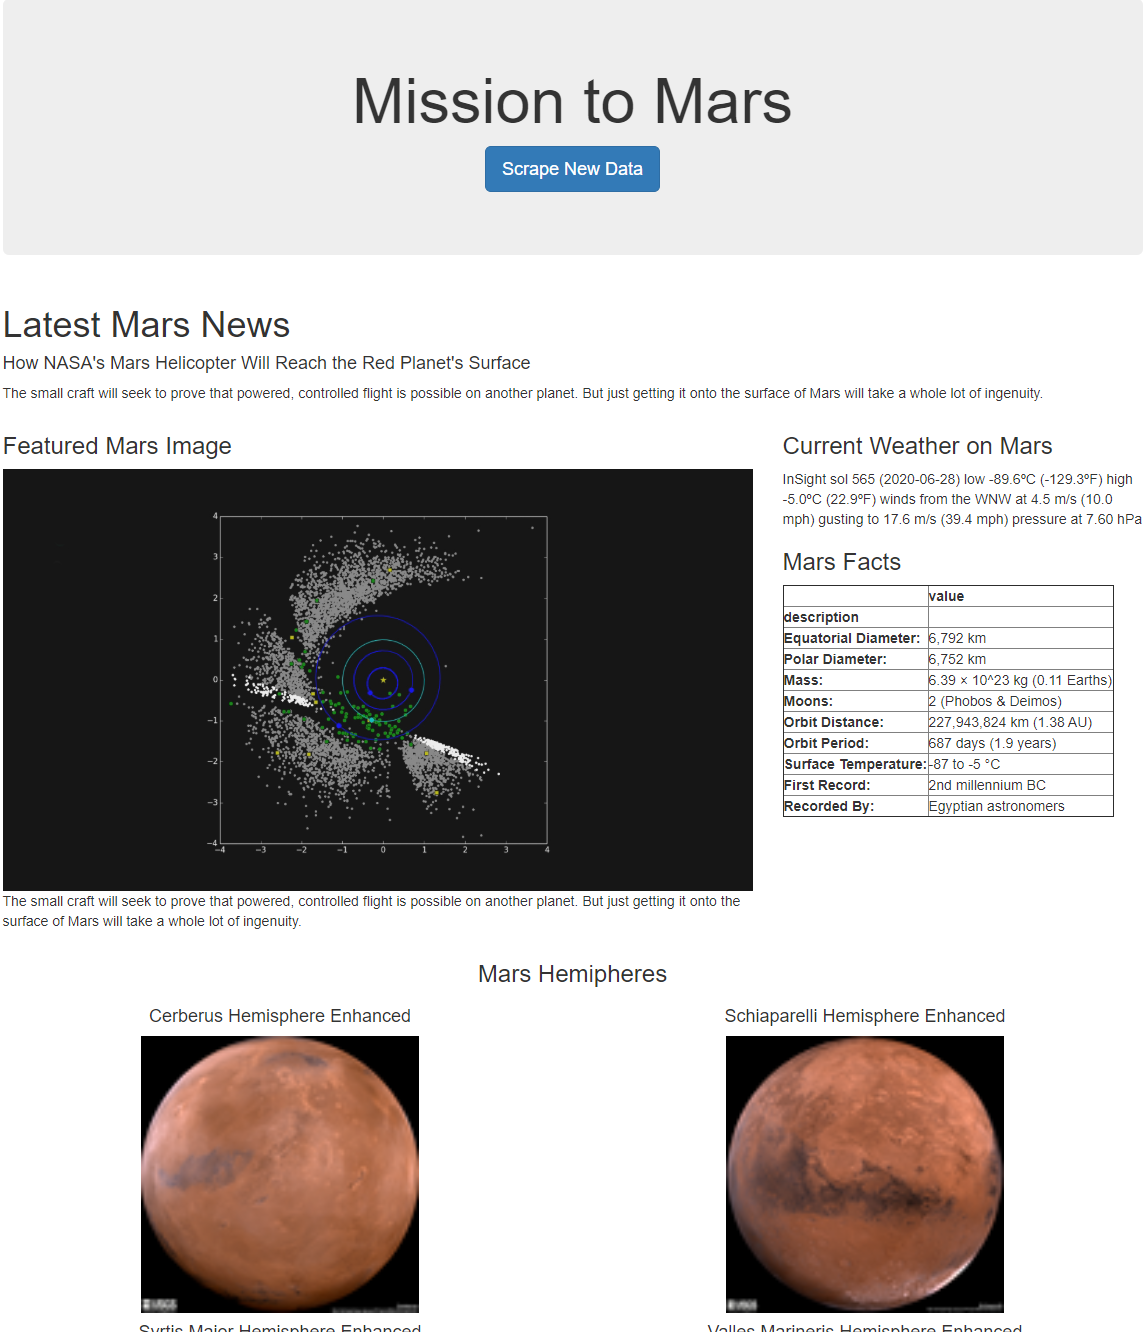
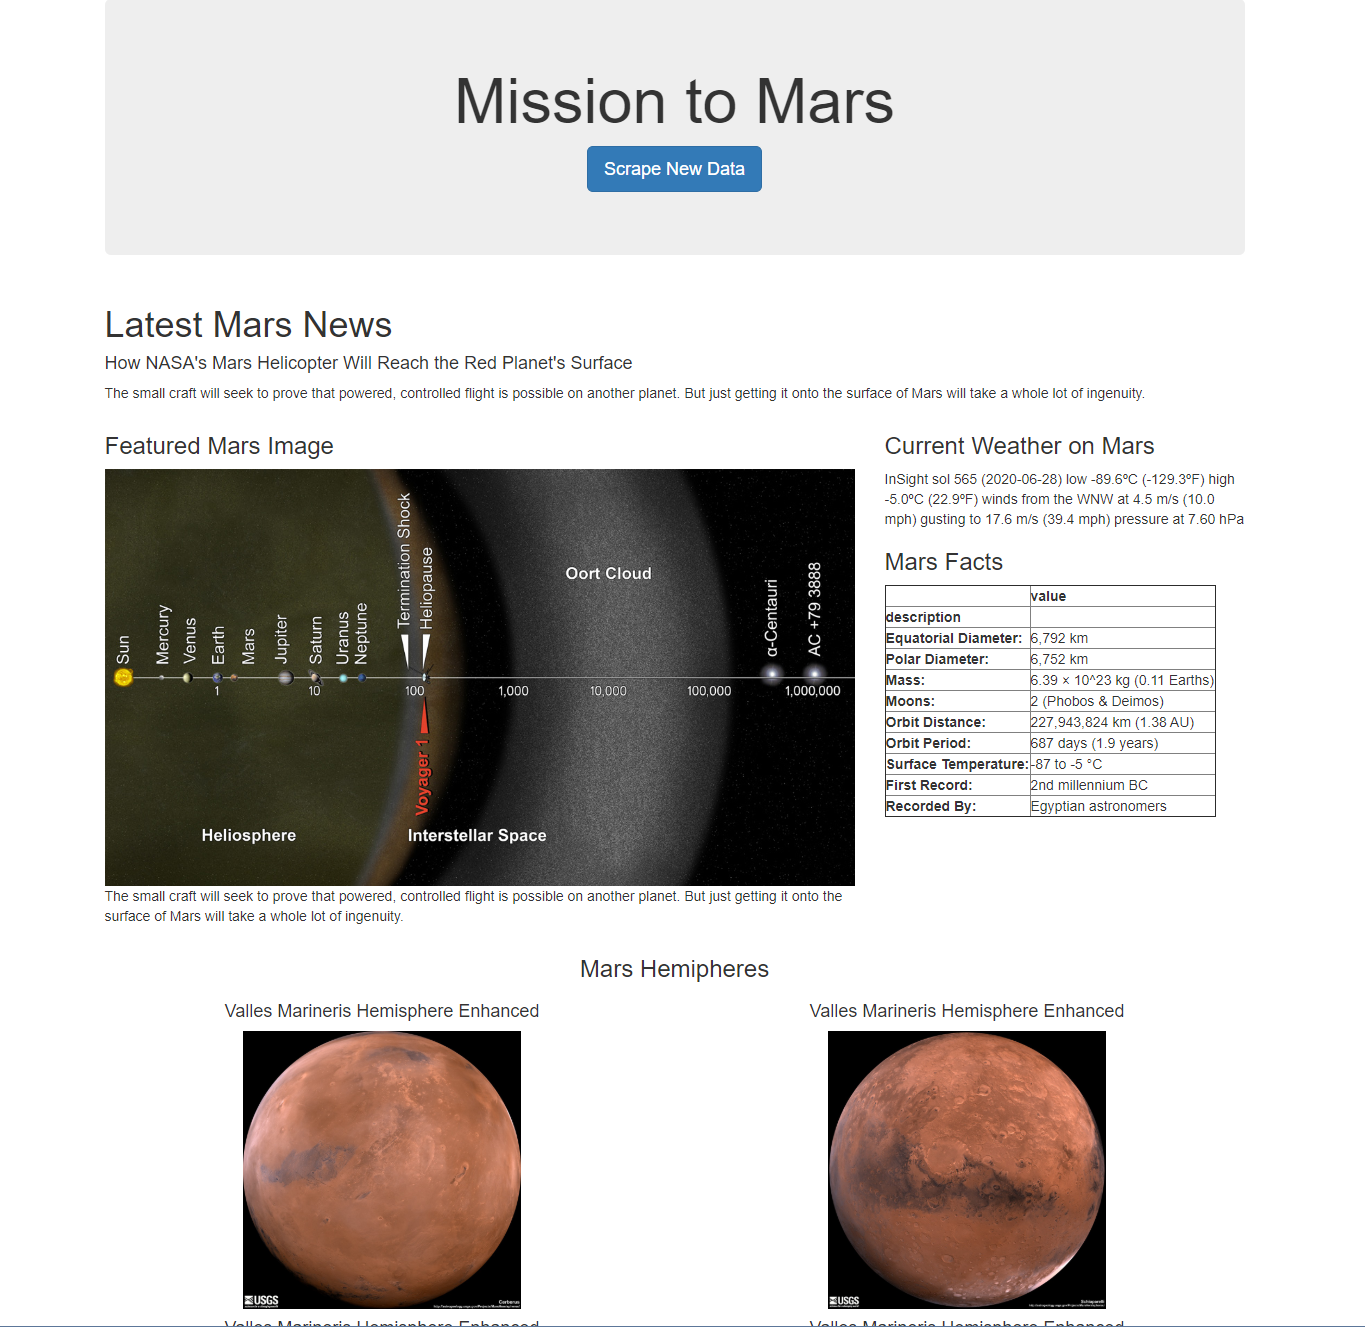
Update url function

diff --git a/scrape_data.py b/scrape_data.py
@@ -16,7 +16,6 @@ def scrape():
     # NASA Mars News
     url = 'https://mars.nasa.gov/news/'
     browser.visit(url)
-    time.sleep(10)
     html = browser.html
     soup = BeautifulSoup(html, 'html.parser')
     news_title = soup.find_all('div', class_='content_title')[1].text
@@ -25,7 +24,6 @@ def scrape():
     # JPL Featured Images
     img_url =  'https://www.jpl.nasa.gov/spaceimages/?search=&category=Mars'
     browser.visit(img_url)
-    time.sleep(10)
     html = browser.html
     soup = BeautifulSoup(html, 'html.parser')
     # img_link = soup.find('article', class_='carousel_item')
@@ -61,13 +59,23 @@ def scrape():
     soup = BeautifulSoup(html, "html.parser")
 
     hemisphere_image_urls = []
+    enhanced_url_list = []
 
     hemi_all = soup.find_all('div', class_='item')
+    # print(hemi_all)
     for hemi_idv in hemi_all:
         title = hemi_idv.find('h3').text
-        hemi_url = hemi_idv.find('img', class_='thumb')['src']
-        full_url = f'https://astrogeology.usgs.gov{hemi_url}'
-        hemisphere_image_urls.append({"title": title, "img_url": full_url})
+        enhanced_url = hemi_idv.a['href']
+        enhanced_url = f'https://astrogeology.usgs.gov{enhanced_url}'
+        enhanced_url_list.append(enhanced_url)
+        
+    for each_enhanced_url in enhanced_url_list:
+        
+        browser.visit(each_enhanced_url)
+        html = browser.html
+        soup = BeautifulSoup(html, "html.parser")
+        org_hemi_url = soup.find('div', class_='downloads').a['href']
+        hemisphere_image_urls.append({"title": title, "img_url": org_hemi_url})
 
 
     scrape_data = {'news_title' : news_title,
